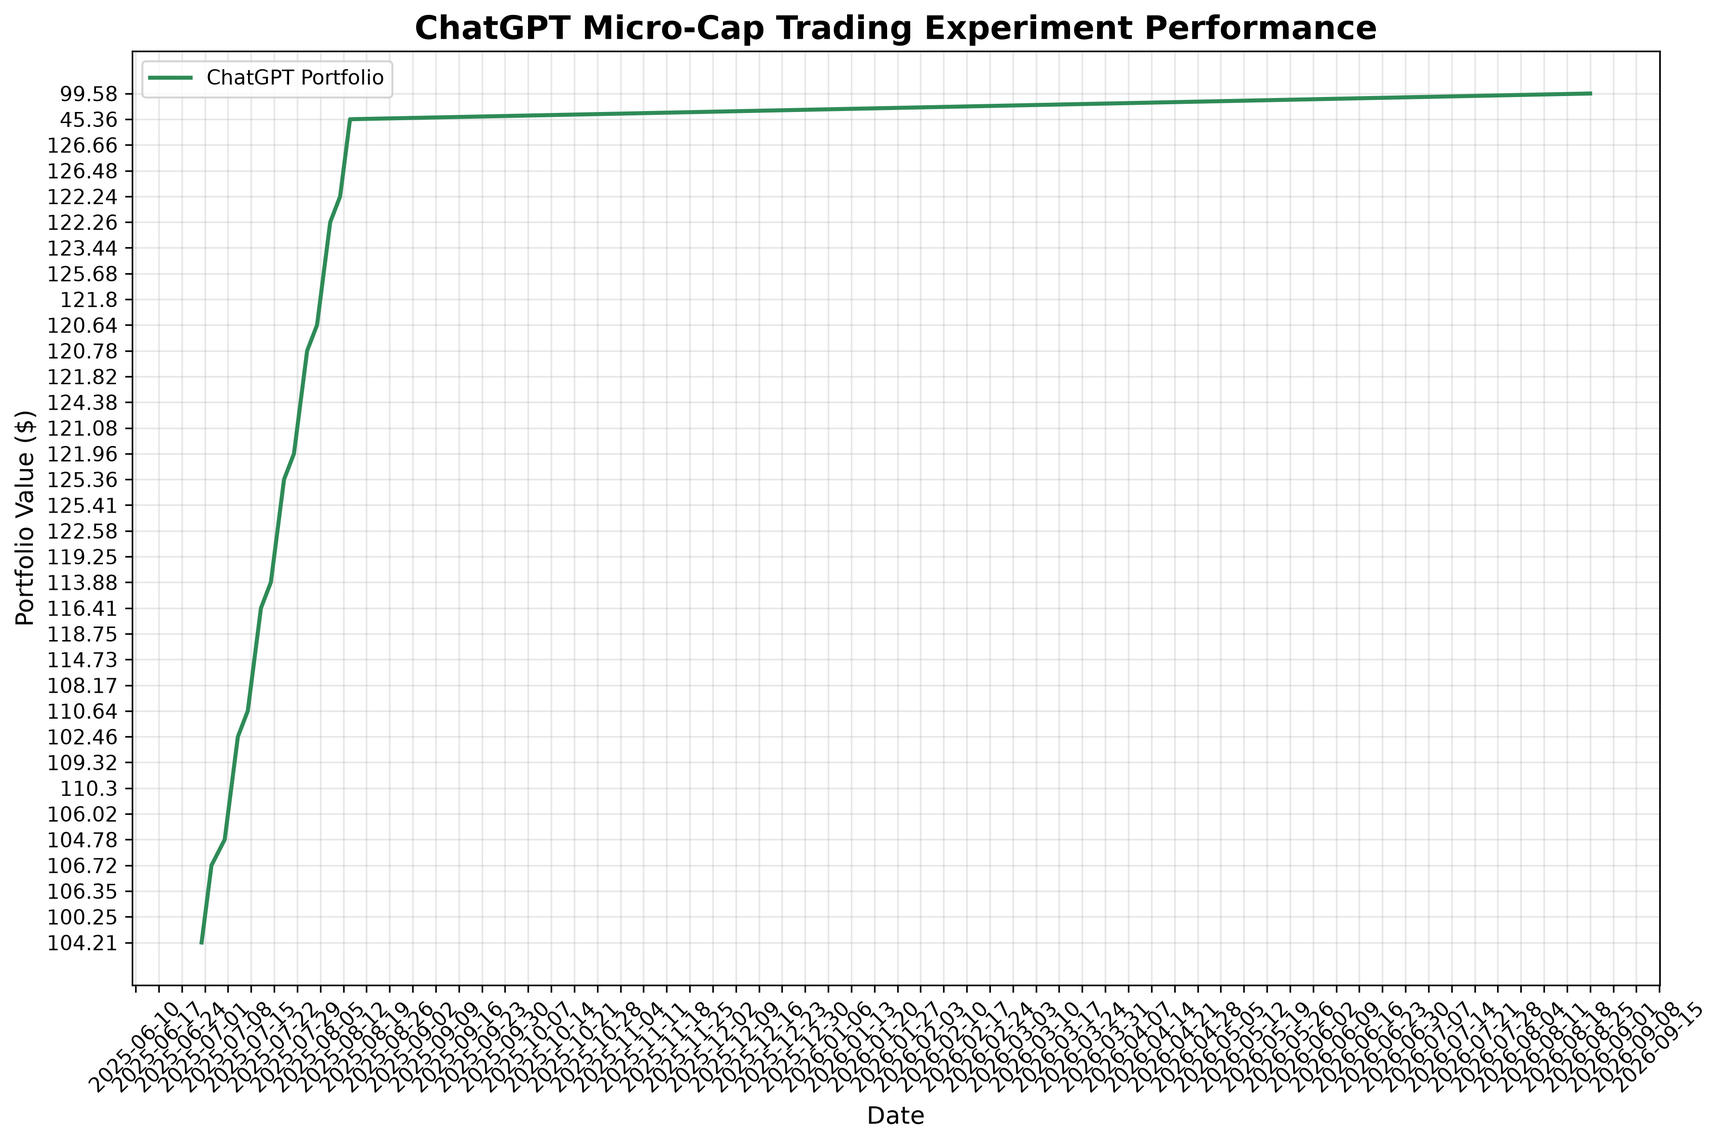
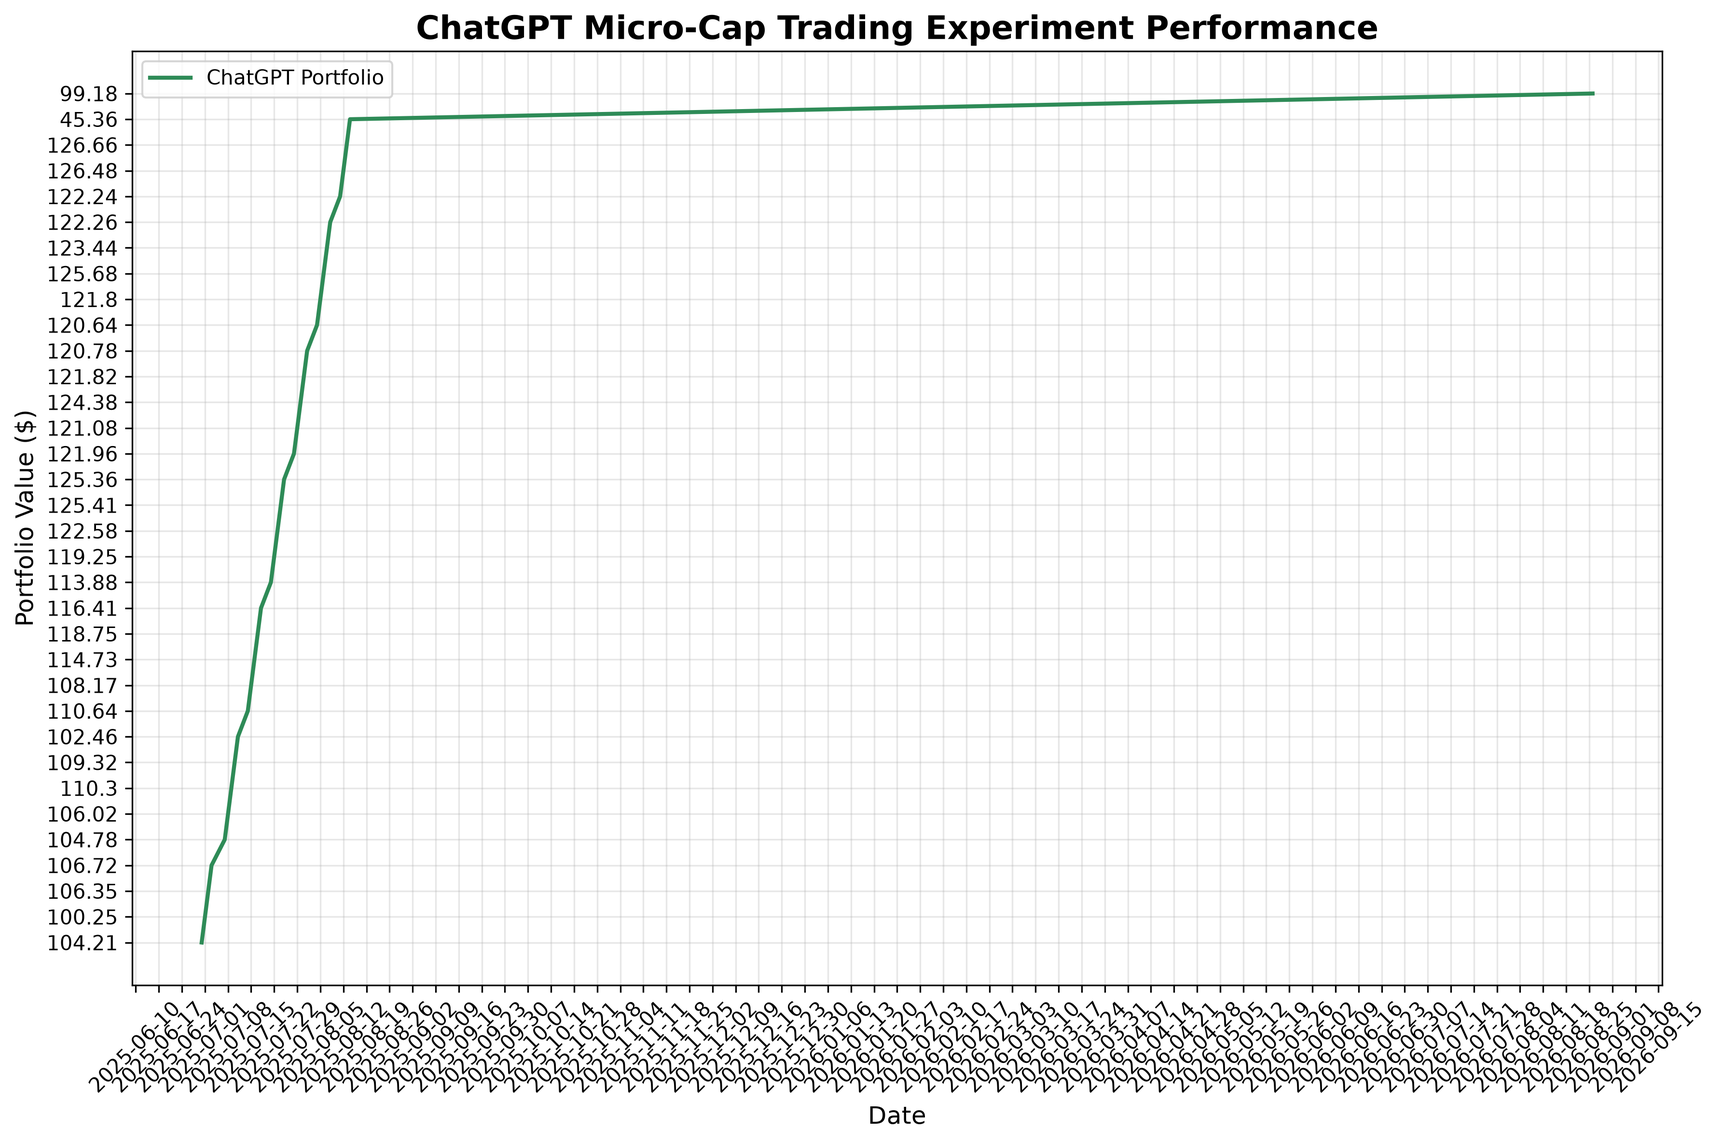
deploy: e15cad030d70fb3fbb51f9df6e22fa70c2f175c0

Changed region(s): [[0.0622, 0.8743, 0.8086, 0.9367], [0.2488, 0.0, 0.7775, 0.0312], [0.4976, 0.9679, 0.5287, 0.9992]]

diff --git a/index.html b/index.html
@@ -105,7 +105,7 @@
                 <div class="stat-label">Total Trades</div>
             </div>
             <div class="stat-card">
-                <div class="stat-value" id="last-updated">2026-08-25</div>
+                <div class="stat-value" id="last-updated">2026-08-26</div>
                 <div class="stat-label">Last Updated</div>
             </div>
         </div>
@@ -160,8 +160,8 @@
     
     <script>
         // Portfolio data
-        const portfolioData = JSON.parse("[{&quot;Date&quot;: &quot;2025-08-11&quot;, &quot;Ticker&quot;: &quot;ABEO&quot;, &quot;Shares&quot;: 4.0, &quot;Buy Price&quot;: 5.77, &quot;Cost Basis&quot;: 23.08, &quot;Stop Loss&quot;: 4.9, &quot;Current Price&quot;: 6.28, &quot;Total Value&quot;: 25.12, &quot;PnL&quot;: 2.04, &quot;Action&quot;: &quot;HOLD&quot;, &quot;Cash Balance&quot;: NaN, &quot;Total Equity&quot;: NaN}, {&quot;Date&quot;: &quot;2025-08-11&quot;, &quot;Ticker&quot;: &quot;ACTU&quot;, &quot;Shares&quot;: 6.0, &quot;Buy Price&quot;: 5.75, &quot;Cost Basis&quot;: 34.5, &quot;Stop Loss&quot;: 4.89, &quot;Current Price&quot;: 8.01, &quot;Total Value&quot;: 48.06, &quot;PnL&quot;: 13.56, &quot;Action&quot;: &quot;HOLD&quot;, &quot;Cash Balance&quot;: NaN, &quot;Total Equity&quot;: NaN}, {&quot;Date&quot;: &quot;2025-08-11&quot;, &quot;Ticker&quot;: &quot;ESPR&quot;, &quot;Shares&quot;: 2.0, &quot;Buy Price&quot;: 1.91, &quot;Cost Basis&quot;: 3.82, &quot;Stop Loss&quot;: 1.6, &quot;Current Price&quot;: 1.85, &quot;Total Value&quot;: 3.7, &quot;PnL&quot;: -0.12, &quot;Action&quot;: &quot;HOLD&quot;, &quot;Cash Balance&quot;: NaN, &quot;Total Equity&quot;: NaN}, {&quot;Date&quot;: &quot;2025-08-11&quot;, &quot;Ticker&quot;: &quot;TOTAL&quot;, &quot;Shares&quot;: NaN, &quot;Buy Price&quot;: NaN, &quot;Cost Basis&quot;: NaN, &quot;Stop Loss&quot;: NaN, &quot;Current Price&quot;: NaN, &quot;Total Value&quot;: 76.88, &quot;PnL&quot;: 15.48, &quot;Action&quot;: NaN, &quot;Cash Balance&quot;: 45.36, &quot;Total Equity&quot;: &quot;122.24&quot;}, {&quot;Date&quot;: &quot;2025-08-12&quot;, &quot;Ticker&quot;: &quot;ABEO&quot;, &quot;Shares&quot;: 4.0, &quot;Buy Price&quot;: 5.77, &quot;Cost Basis&quot;: 23.08, &quot;Stop Loss&quot;: 4.9, &quot;Current Price&quot;: 6.38, &quot;Total Value&quot;: 25.52, &quot;PnL&quot;: 2.44, &quot;Action&quot;: &quot;HOLD&quot;, &quot;Cash Balance&quot;: NaN, &quot;Total Equity&quot;: NaN}, {&quot;Date&quot;: &quot;2025-08-12&quot;, &quot;Ticker&quot;: &quot;ACTU&quot;, &quot;Shares&quot;: 6.0, &quot;Buy Price&quot;: 5.75, &quot;Cost Basis&quot;: 34.5, &quot;Stop Loss&quot;: 4.89, &quot;Current Price&quot;: 8.67, &quot;Total Value&quot;: 52.02, &quot;PnL&quot;: 17.52, &quot;Action&quot;: &quot;HOLD&quot;, &quot;Cash Balance&quot;: NaN, &quot;Total Equity&quot;: NaN}, {&quot;Date&quot;: &quot;2025-08-12&quot;, &quot;Ticker&quot;: &quot;ESPR&quot;, &quot;Shares&quot;: 2.0, &quot;Buy Price&quot;: 1.91, &quot;Cost Basis&quot;: 3.82, &quot;Stop Loss&quot;: 1.6, &quot;Current Price&quot;: 1.79, &quot;Total Value&quot;: 3.58, &quot;PnL&quot;: -0.24, &quot;Action&quot;: &quot;HOLD&quot;, &quot;Cash Balance&quot;: NaN, &quot;Total Equity&quot;: NaN}, {&quot;Date&quot;: &quot;2025-08-12&quot;, &quot;Ticker&quot;: &quot;TOTAL&quot;, &quot;Shares&quot;: NaN, &quot;Buy Price&quot;: NaN, &quot;Cost Basis&quot;: NaN, &quot;Stop Loss&quot;: NaN, &quot;Current Price&quot;: NaN, &quot;Total Value&quot;: 81.12, &quot;PnL&quot;: 19.72, &quot;Action&quot;: NaN, &quot;Cash Balance&quot;: 45.36, &quot;Total Equity&quot;: &quot;126.48&quot;}, {&quot;Date&quot;: &quot;2025-08-13&quot;, &quot;Ticker&quot;: &quot;ABEO&quot;, &quot;Shares&quot;: 4.0, &quot;Buy Price&quot;: 5.77, &quot;Cost Basis&quot;: 23.08, &quot;Stop Loss&quot;: 4.9, &quot;Current Price&quot;: 6.56, &quot;Total Value&quot;: 26.24, &quot;PnL&quot;: 3.16, &quot;Action&quot;: &quot;HOLD&quot;, &quot;Cash Balance&quot;: NaN, &quot;Total Equity&quot;: NaN}, {&quot;Date&quot;: &quot;2025-08-13&quot;, &quot;Ticker&quot;: &quot;ACTU&quot;, &quot;Shares&quot;: 6.0, &quot;Buy Price&quot;: 5.75, &quot;Cost Basis&quot;: 34.5, &quot;Stop Loss&quot;: 4.89, &quot;Current Price&quot;: 8.53, &quot;Total Value&quot;: 51.18, &quot;PnL&quot;: 16.68, &quot;Action&quot;: &quot;HOLD&quot;, &quot;Cash Balance&quot;: NaN, &quot;Total Equity&quot;: NaN}, {&quot;Date&quot;: &quot;2025-08-13&quot;, &quot;Ticker&quot;: &quot;ESPR&quot;, &quot;Shares&quot;: 2.0, &quot;Buy Price&quot;: 1.91, &quot;Cost Basis&quot;: 3.82, &quot;Stop Loss&quot;: 1.6, &quot;Current Price&quot;: 1.94, &quot;Total Value&quot;: 3.88, &quot;PnL&quot;: 0.06, &quot;Action&quot;: &quot;HOLD&quot;, &quot;Cash Balance&quot;: NaN, &quot;Total Equity&quot;: NaN}, {&quot;Date&quot;: &quot;2025-08-13&quot;, &quot;Ticker&quot;: &quot;TOTAL&quot;, &quot;Shares&quot;: NaN, &quot;Buy Price&quot;: NaN, &quot;Cost Basis&quot;: NaN, &quot;Stop Loss&quot;: NaN, &quot;Current Price&quot;: NaN, &quot;Total Value&quot;: 81.3, &quot;PnL&quot;: 19.9, &quot;Action&quot;: NaN, &quot;Cash Balance&quot;: 45.36, &quot;Total Equity&quot;: &quot;126.66&quot;}, {&quot;Date&quot;: &quot;2025-08-14&quot;, &quot;Ticker&quot;: &quot;ABEO&quot;, &quot;Shares&quot;: 4.0, &quot;Buy Price&quot;: 5.77, &quot;Cost Basis&quot;: 23.08, &quot;Stop Loss&quot;: 4.9, &quot;Current Price&quot;: NaN, &quot;Total Value&quot;: NaN, &quot;PnL&quot;: NaN, &quot;Action&quot;: &quot;NO DATA&quot;, &quot;Cash Balance&quot;: NaN, &quot;Total Equity&quot;: NaN}, {&quot;Date&quot;: &quot;2025-08-14&quot;, &quot;Ticker&quot;: &quot;ACTU&quot;, &quot;Shares&quot;: 6.0, &quot;Buy Price&quot;: 5.75, &quot;Cost Basis&quot;: 34.5, &quot;Stop Loss&quot;: 4.89, &quot;Current Price&quot;: NaN, &quot;Total Value&quot;: NaN, &quot;PnL&quot;: NaN, &quot;Action&quot;: &quot;NO DATA&quot;, &quot;Cash Balance&quot;: NaN, &quot;Total Equity&quot;: NaN}, {&quot;Date&quot;: &quot;2025-08-14&quot;, &quot;Ticker&quot;: &quot;ESPR&quot;, &quot;Shares&quot;: 2.0, &quot;Buy Price&quot;: 1.91, &quot;Cost Basis&quot;: 3.82, &quot;Stop Loss&quot;: 1.6, &quot;Current Price&quot;: NaN, &quot;Total Value&quot;: NaN, &quot;PnL&quot;: NaN, &quot;Action&quot;: &quot;NO DATA&quot;, &quot;Cash Balance&quot;: NaN, &quot;Total Equity&quot;: NaN}, {&quot;Date&quot;: &quot;2025-08-14&quot;, &quot;Ticker&quot;: &quot;TOTAL&quot;, &quot;Shares&quot;: NaN, &quot;Buy Price&quot;: NaN, &quot;Cost Basis&quot;: NaN, &quot;Stop Loss&quot;: NaN, &quot;Current Price&quot;: NaN, &quot;Total Value&quot;: 0.0, &quot;PnL&quot;: 0.0, &quot;Action&quot;: NaN, &quot;Cash Balance&quot;: 45.36, &quot;Total Equity&quot;: &quot;45.36&quot;}, {&quot;Date&quot;: &quot;2026-08-25&quot;, &quot;Ticker&quot;: &quot;ABEO&quot;, &quot;Shares&quot;: 4.0, &quot;Buy Price&quot;: 5.77, &quot;Cost Basis&quot;: 23.08, &quot;Stop Loss&quot;: 4.9, &quot;Current Price&quot;: 6.22, &quot;Total Value&quot;: 24.88, &quot;PnL&quot;: 1.8, &quot;Action&quot;: &quot;HOLD&quot;, &quot;Cash Balance&quot;: NaN, &quot;Total Equity&quot;: NaN}, {&quot;Date&quot;: &quot;2026-08-25&quot;, &quot;Ticker&quot;: &quot;ACTU&quot;, &quot;Shares&quot;: 6.0, &quot;Buy Price&quot;: 5.75, &quot;Cost Basis&quot;: 34.5, &quot;Stop Loss&quot;: 4.89, &quot;Current Price&quot;: 4.89, &quot;Total Value&quot;: 29.34, &quot;PnL&quot;: -5.16, &quot;Action&quot;: &quot;SELL - Stop Loss Triggered&quot;, &quot;Cash Balance&quot;: NaN, &quot;Total Equity&quot;: NaN}, {&quot;Date&quot;: &quot;2026-08-25&quot;, &quot;Ticker&quot;: &quot;ESPR&quot;, &quot;Shares&quot;: 2.0, &quot;Buy Price&quot;: 1.91, &quot;Cost Basis&quot;: 3.82, &quot;Stop Loss&quot;: 1.6, &quot;Current Price&quot;: NaN, &quot;Total Value&quot;: NaN, &quot;PnL&quot;: NaN, &quot;Action&quot;: &quot;NO DATA&quot;, &quot;Cash Balance&quot;: NaN, &quot;Total Equity&quot;: NaN}, {&quot;Date&quot;: &quot;2026-08-25&quot;, &quot;Ticker&quot;: &quot;TOTAL&quot;, &quot;Shares&quot;: NaN, &quot;Buy Price&quot;: NaN, &quot;Cost Basis&quot;: NaN, &quot;Stop Loss&quot;: NaN, &quot;Current Price&quot;: NaN, &quot;Total Value&quot;: 24.88, &quot;PnL&quot;: 1.8, &quot;Action&quot;: NaN, &quot;Cash Balance&quot;: 74.7, &quot;Total Equity&quot;: &quot;99.58&quot;}]");
-        const tradeData = JSON.parse("[{&quot;Date&quot;: &quot;2025-07-08&quot;, &quot;Ticker&quot;: &quot;IINN&quot;, &quot;Shares Bought&quot;: 20.0, &quot;Buy Price&quot;: 1.5, &quot;Cost Basis&quot;: 30.0, &quot;PnL&quot;: 0.0, &quot;Reason&quot;: &quot;MANUAL BUY - New position&quot;, &quot;Shares Sold&quot;: NaN, &quot;Sell Price&quot;: NaN}, {&quot;Date&quot;: &quot;2025-07-21&quot;, &quot;Ticker&quot;: &quot;CADL&quot;, &quot;Shares Bought&quot;: NaN, &quot;Buy Price&quot;: NaN, &quot;Cost Basis&quot;: 25.2, &quot;PnL&quot;: 8.5, &quot;Reason&quot;: &quot;MANUAL SELL - GAIN CAPITAL FOR ACTU&quot;, &quot;Shares Sold&quot;: 5.0, &quot;Sell Price&quot;: 6.59}, {&quot;Date&quot;: &quot;2025-07-21&quot;, &quot;Ticker&quot;: &quot;ACTU&quot;, &quot;Shares Bought&quot;: 6.0, &quot;Buy Price&quot;: 5.75, &quot;Cost Basis&quot;: 34.5, &quot;PnL&quot;: 0.0, &quot;Reason&quot;: &quot;MANUAL BUY - New position&quot;, &quot;Shares Sold&quot;: NaN, &quot;Sell Price&quot;: NaN}, {&quot;Date&quot;: &quot;2025-07-28&quot;, &quot;Ticker&quot;: &quot;IINN&quot;, &quot;Shares Bought&quot;: NaN, &quot;Buy Price&quot;: NaN, &quot;Cost Basis&quot;: 9.0, &quot;PnL&quot;: -0.5400000000000009, &quot;Reason&quot;: &quot;MANUAL SELL - POSITION REDUCTION&quot;, &quot;Shares Sold&quot;: 6.0, &quot;Sell Price&quot;: 1.41}, {&quot;Date&quot;: &quot;2025-07-29&quot;, &quot;Ticker&quot;: &quot;AZTR&quot;, &quot;Shares Bought&quot;: NaN, &quot;Buy Price&quot;: NaN, &quot;Cost Basis&quot;: 13.75, &quot;PnL&quot;: -2.75, &quot;Reason&quot;: &quot;MANUAL SELL - DILUTION RISK&quot;, &quot;Shares Sold&quot;: 55.0, &quot;Sell Price&quot;: 0.2}, {&quot;Date&quot;: &quot;2025-08-01&quot;, &quot;Ticker&quot;: &quot;IINN&quot;, &quot;Shares Bought&quot;: 2.0, &quot;Buy Price&quot;: 1.74, &quot;Cost Basis&quot;: 3.48, &quot;PnL&quot;: 0.0, &quot;Reason&quot;: &quot;MANUAL BUY - New position&quot;, &quot;Shares Sold&quot;: NaN, &quot;Sell Price&quot;: NaN}, {&quot;Date&quot;: &quot;2025-08-01&quot;, &quot;Ticker&quot;: &quot;ABEO&quot;, &quot;Shares Bought&quot;: NaN, &quot;Buy Price&quot;: NaN, &quot;Cost Basis&quot;: 11.54, &quot;PnL&quot;: 1.200000000000001, &quot;Reason&quot;: &quot;MANUAL SELL - TRIM AFTER SUPPORT LOSS&quot;, &quot;Shares Sold&quot;: 2.0, &quot;Sell Price&quot;: 6.37}, {&quot;Date&quot;: &quot;2025-08-07&quot;, &quot;Ticker&quot;: &quot;ESPR&quot;, &quot;Shares Bought&quot;: 2.0, &quot;Buy Price&quot;: 1.91, &quot;Cost Basis&quot;: 3.82, &quot;PnL&quot;: 0.0, &quot;Reason&quot;: &quot;MANUAL BUY - New position&quot;, &quot;Shares Sold&quot;: NaN, &quot;Sell Price&quot;: NaN}, {&quot;Date&quot;: &quot;2025-08-08&quot;, &quot;Ticker&quot;: &quot;IINN&quot;, &quot;Shares Bought&quot;: NaN, &quot;Buy Price&quot;: NaN, &quot;Cost Basis&quot;: 1.5, &quot;PnL&quot;: -6.4, &quot;Reason&quot;: &quot;AUTOMATED SELL - STOPLOSS TRIGGERED&quot;, &quot;Shares Sold&quot;: 16.0, &quot;Sell Price&quot;: 1.1}, {&quot;Date&quot;: &quot;2026-08-25&quot;, &quot;Ticker&quot;: &quot;ACTU&quot;, &quot;Shares Bought&quot;: NaN, &quot;Buy Price&quot;: NaN, &quot;Cost Basis&quot;: 5.75, &quot;PnL&quot;: -5.16, &quot;Reason&quot;: &quot;AUTOMATED SELL - STOPLOSS TRIGGERED&quot;, &quot;Shares Sold&quot;: 6.0, &quot;Sell Price&quot;: 4.89}]");
+        const portfolioData = JSON.parse("[{&quot;Date&quot;: &quot;2025-08-11&quot;, &quot;Ticker&quot;: &quot;ABEO&quot;, &quot;Shares&quot;: 4.0, &quot;Buy Price&quot;: 5.77, &quot;Cost Basis&quot;: 23.08, &quot;Stop Loss&quot;: 4.9, &quot;Current Price&quot;: 6.28, &quot;Total Value&quot;: 25.12, &quot;PnL&quot;: 2.04, &quot;Action&quot;: &quot;HOLD&quot;, &quot;Cash Balance&quot;: NaN, &quot;Total Equity&quot;: NaN}, {&quot;Date&quot;: &quot;2025-08-11&quot;, &quot;Ticker&quot;: &quot;ACTU&quot;, &quot;Shares&quot;: 6.0, &quot;Buy Price&quot;: 5.75, &quot;Cost Basis&quot;: 34.5, &quot;Stop Loss&quot;: 4.89, &quot;Current Price&quot;: 8.01, &quot;Total Value&quot;: 48.06, &quot;PnL&quot;: 13.56, &quot;Action&quot;: &quot;HOLD&quot;, &quot;Cash Balance&quot;: NaN, &quot;Total Equity&quot;: NaN}, {&quot;Date&quot;: &quot;2025-08-11&quot;, &quot;Ticker&quot;: &quot;ESPR&quot;, &quot;Shares&quot;: 2.0, &quot;Buy Price&quot;: 1.91, &quot;Cost Basis&quot;: 3.82, &quot;Stop Loss&quot;: 1.6, &quot;Current Price&quot;: 1.85, &quot;Total Value&quot;: 3.7, &quot;PnL&quot;: -0.12, &quot;Action&quot;: &quot;HOLD&quot;, &quot;Cash Balance&quot;: NaN, &quot;Total Equity&quot;: NaN}, {&quot;Date&quot;: &quot;2025-08-11&quot;, &quot;Ticker&quot;: &quot;TOTAL&quot;, &quot;Shares&quot;: NaN, &quot;Buy Price&quot;: NaN, &quot;Cost Basis&quot;: NaN, &quot;Stop Loss&quot;: NaN, &quot;Current Price&quot;: NaN, &quot;Total Value&quot;: 76.88, &quot;PnL&quot;: 15.48, &quot;Action&quot;: NaN, &quot;Cash Balance&quot;: 45.36, &quot;Total Equity&quot;: &quot;122.24&quot;}, {&quot;Date&quot;: &quot;2025-08-12&quot;, &quot;Ticker&quot;: &quot;ABEO&quot;, &quot;Shares&quot;: 4.0, &quot;Buy Price&quot;: 5.77, &quot;Cost Basis&quot;: 23.08, &quot;Stop Loss&quot;: 4.9, &quot;Current Price&quot;: 6.38, &quot;Total Value&quot;: 25.52, &quot;PnL&quot;: 2.44, &quot;Action&quot;: &quot;HOLD&quot;, &quot;Cash Balance&quot;: NaN, &quot;Total Equity&quot;: NaN}, {&quot;Date&quot;: &quot;2025-08-12&quot;, &quot;Ticker&quot;: &quot;ACTU&quot;, &quot;Shares&quot;: 6.0, &quot;Buy Price&quot;: 5.75, &quot;Cost Basis&quot;: 34.5, &quot;Stop Loss&quot;: 4.89, &quot;Current Price&quot;: 8.67, &quot;Total Value&quot;: 52.02, &quot;PnL&quot;: 17.52, &quot;Action&quot;: &quot;HOLD&quot;, &quot;Cash Balance&quot;: NaN, &quot;Total Equity&quot;: NaN}, {&quot;Date&quot;: &quot;2025-08-12&quot;, &quot;Ticker&quot;: &quot;ESPR&quot;, &quot;Shares&quot;: 2.0, &quot;Buy Price&quot;: 1.91, &quot;Cost Basis&quot;: 3.82, &quot;Stop Loss&quot;: 1.6, &quot;Current Price&quot;: 1.79, &quot;Total Value&quot;: 3.58, &quot;PnL&quot;: -0.24, &quot;Action&quot;: &quot;HOLD&quot;, &quot;Cash Balance&quot;: NaN, &quot;Total Equity&quot;: NaN}, {&quot;Date&quot;: &quot;2025-08-12&quot;, &quot;Ticker&quot;: &quot;TOTAL&quot;, &quot;Shares&quot;: NaN, &quot;Buy Price&quot;: NaN, &quot;Cost Basis&quot;: NaN, &quot;Stop Loss&quot;: NaN, &quot;Current Price&quot;: NaN, &quot;Total Value&quot;: 81.12, &quot;PnL&quot;: 19.72, &quot;Action&quot;: NaN, &quot;Cash Balance&quot;: 45.36, &quot;Total Equity&quot;: &quot;126.48&quot;}, {&quot;Date&quot;: &quot;2025-08-13&quot;, &quot;Ticker&quot;: &quot;ABEO&quot;, &quot;Shares&quot;: 4.0, &quot;Buy Price&quot;: 5.77, &quot;Cost Basis&quot;: 23.08, &quot;Stop Loss&quot;: 4.9, &quot;Current Price&quot;: 6.56, &quot;Total Value&quot;: 26.24, &quot;PnL&quot;: 3.16, &quot;Action&quot;: &quot;HOLD&quot;, &quot;Cash Balance&quot;: NaN, &quot;Total Equity&quot;: NaN}, {&quot;Date&quot;: &quot;2025-08-13&quot;, &quot;Ticker&quot;: &quot;ACTU&quot;, &quot;Shares&quot;: 6.0, &quot;Buy Price&quot;: 5.75, &quot;Cost Basis&quot;: 34.5, &quot;Stop Loss&quot;: 4.89, &quot;Current Price&quot;: 8.53, &quot;Total Value&quot;: 51.18, &quot;PnL&quot;: 16.68, &quot;Action&quot;: &quot;HOLD&quot;, &quot;Cash Balance&quot;: NaN, &quot;Total Equity&quot;: NaN}, {&quot;Date&quot;: &quot;2025-08-13&quot;, &quot;Ticker&quot;: &quot;ESPR&quot;, &quot;Shares&quot;: 2.0, &quot;Buy Price&quot;: 1.91, &quot;Cost Basis&quot;: 3.82, &quot;Stop Loss&quot;: 1.6, &quot;Current Price&quot;: 1.94, &quot;Total Value&quot;: 3.88, &quot;PnL&quot;: 0.06, &quot;Action&quot;: &quot;HOLD&quot;, &quot;Cash Balance&quot;: NaN, &quot;Total Equity&quot;: NaN}, {&quot;Date&quot;: &quot;2025-08-13&quot;, &quot;Ticker&quot;: &quot;TOTAL&quot;, &quot;Shares&quot;: NaN, &quot;Buy Price&quot;: NaN, &quot;Cost Basis&quot;: NaN, &quot;Stop Loss&quot;: NaN, &quot;Current Price&quot;: NaN, &quot;Total Value&quot;: 81.3, &quot;PnL&quot;: 19.9, &quot;Action&quot;: NaN, &quot;Cash Balance&quot;: 45.36, &quot;Total Equity&quot;: &quot;126.66&quot;}, {&quot;Date&quot;: &quot;2025-08-14&quot;, &quot;Ticker&quot;: &quot;ABEO&quot;, &quot;Shares&quot;: 4.0, &quot;Buy Price&quot;: 5.77, &quot;Cost Basis&quot;: 23.08, &quot;Stop Loss&quot;: 4.9, &quot;Current Price&quot;: NaN, &quot;Total Value&quot;: NaN, &quot;PnL&quot;: NaN, &quot;Action&quot;: &quot;NO DATA&quot;, &quot;Cash Balance&quot;: NaN, &quot;Total Equity&quot;: NaN}, {&quot;Date&quot;: &quot;2025-08-14&quot;, &quot;Ticker&quot;: &quot;ACTU&quot;, &quot;Shares&quot;: 6.0, &quot;Buy Price&quot;: 5.75, &quot;Cost Basis&quot;: 34.5, &quot;Stop Loss&quot;: 4.89, &quot;Current Price&quot;: NaN, &quot;Total Value&quot;: NaN, &quot;PnL&quot;: NaN, &quot;Action&quot;: &quot;NO DATA&quot;, &quot;Cash Balance&quot;: NaN, &quot;Total Equity&quot;: NaN}, {&quot;Date&quot;: &quot;2025-08-14&quot;, &quot;Ticker&quot;: &quot;ESPR&quot;, &quot;Shares&quot;: 2.0, &quot;Buy Price&quot;: 1.91, &quot;Cost Basis&quot;: 3.82, &quot;Stop Loss&quot;: 1.6, &quot;Current Price&quot;: NaN, &quot;Total Value&quot;: NaN, &quot;PnL&quot;: NaN, &quot;Action&quot;: &quot;NO DATA&quot;, &quot;Cash Balance&quot;: NaN, &quot;Total Equity&quot;: NaN}, {&quot;Date&quot;: &quot;2025-08-14&quot;, &quot;Ticker&quot;: &quot;TOTAL&quot;, &quot;Shares&quot;: NaN, &quot;Buy Price&quot;: NaN, &quot;Cost Basis&quot;: NaN, &quot;Stop Loss&quot;: NaN, &quot;Current Price&quot;: NaN, &quot;Total Value&quot;: 0.0, &quot;PnL&quot;: 0.0, &quot;Action&quot;: NaN, &quot;Cash Balance&quot;: 45.36, &quot;Total Equity&quot;: &quot;45.36&quot;}, {&quot;Date&quot;: &quot;2026-08-26&quot;, &quot;Ticker&quot;: &quot;ABEO&quot;, &quot;Shares&quot;: 4.0, &quot;Buy Price&quot;: 5.77, &quot;Cost Basis&quot;: 23.08, &quot;Stop Loss&quot;: 4.9, &quot;Current Price&quot;: 6.12, &quot;Total Value&quot;: 24.48, &quot;PnL&quot;: 1.4, &quot;Action&quot;: &quot;HOLD&quot;, &quot;Cash Balance&quot;: NaN, &quot;Total Equity&quot;: NaN}, {&quot;Date&quot;: &quot;2026-08-26&quot;, &quot;Ticker&quot;: &quot;ACTU&quot;, &quot;Shares&quot;: 6.0, &quot;Buy Price&quot;: 5.75, &quot;Cost Basis&quot;: 34.5, &quot;Stop Loss&quot;: 4.89, &quot;Current Price&quot;: 4.89, &quot;Total Value&quot;: 29.34, &quot;PnL&quot;: -5.16, &quot;Action&quot;: &quot;SELL - Stop Loss Triggered&quot;, &quot;Cash Balance&quot;: NaN, &quot;Total Equity&quot;: NaN}, {&quot;Date&quot;: &quot;2026-08-26&quot;, &quot;Ticker&quot;: &quot;ESPR&quot;, &quot;Shares&quot;: 2.0, &quot;Buy Price&quot;: 1.91, &quot;Cost Basis&quot;: 3.82, &quot;Stop Loss&quot;: 1.6, &quot;Current Price&quot;: NaN, &quot;Total Value&quot;: NaN, &quot;PnL&quot;: NaN, &quot;Action&quot;: &quot;NO DATA&quot;, &quot;Cash Balance&quot;: NaN, &quot;Total Equity&quot;: NaN}, {&quot;Date&quot;: &quot;2026-08-26&quot;, &quot;Ticker&quot;: &quot;TOTAL&quot;, &quot;Shares&quot;: NaN, &quot;Buy Price&quot;: NaN, &quot;Cost Basis&quot;: NaN, &quot;Stop Loss&quot;: NaN, &quot;Current Price&quot;: NaN, &quot;Total Value&quot;: 24.48, &quot;PnL&quot;: 1.4, &quot;Action&quot;: NaN, &quot;Cash Balance&quot;: 74.7, &quot;Total Equity&quot;: &quot;99.18&quot;}]");
+        const tradeData = JSON.parse("[{&quot;Date&quot;: &quot;2025-07-08&quot;, &quot;Ticker&quot;: &quot;IINN&quot;, &quot;Shares Bought&quot;: 20.0, &quot;Buy Price&quot;: 1.5, &quot;Cost Basis&quot;: 30.0, &quot;PnL&quot;: 0.0, &quot;Reason&quot;: &quot;MANUAL BUY - New position&quot;, &quot;Shares Sold&quot;: NaN, &quot;Sell Price&quot;: NaN}, {&quot;Date&quot;: &quot;2025-07-21&quot;, &quot;Ticker&quot;: &quot;CADL&quot;, &quot;Shares Bought&quot;: NaN, &quot;Buy Price&quot;: NaN, &quot;Cost Basis&quot;: 25.2, &quot;PnL&quot;: 8.5, &quot;Reason&quot;: &quot;MANUAL SELL - GAIN CAPITAL FOR ACTU&quot;, &quot;Shares Sold&quot;: 5.0, &quot;Sell Price&quot;: 6.59}, {&quot;Date&quot;: &quot;2025-07-21&quot;, &quot;Ticker&quot;: &quot;ACTU&quot;, &quot;Shares Bought&quot;: 6.0, &quot;Buy Price&quot;: 5.75, &quot;Cost Basis&quot;: 34.5, &quot;PnL&quot;: 0.0, &quot;Reason&quot;: &quot;MANUAL BUY - New position&quot;, &quot;Shares Sold&quot;: NaN, &quot;Sell Price&quot;: NaN}, {&quot;Date&quot;: &quot;2025-07-28&quot;, &quot;Ticker&quot;: &quot;IINN&quot;, &quot;Shares Bought&quot;: NaN, &quot;Buy Price&quot;: NaN, &quot;Cost Basis&quot;: 9.0, &quot;PnL&quot;: -0.5400000000000009, &quot;Reason&quot;: &quot;MANUAL SELL - POSITION REDUCTION&quot;, &quot;Shares Sold&quot;: 6.0, &quot;Sell Price&quot;: 1.41}, {&quot;Date&quot;: &quot;2025-07-29&quot;, &quot;Ticker&quot;: &quot;AZTR&quot;, &quot;Shares Bought&quot;: NaN, &quot;Buy Price&quot;: NaN, &quot;Cost Basis&quot;: 13.75, &quot;PnL&quot;: -2.75, &quot;Reason&quot;: &quot;MANUAL SELL - DILUTION RISK&quot;, &quot;Shares Sold&quot;: 55.0, &quot;Sell Price&quot;: 0.2}, {&quot;Date&quot;: &quot;2025-08-01&quot;, &quot;Ticker&quot;: &quot;IINN&quot;, &quot;Shares Bought&quot;: 2.0, &quot;Buy Price&quot;: 1.74, &quot;Cost Basis&quot;: 3.48, &quot;PnL&quot;: 0.0, &quot;Reason&quot;: &quot;MANUAL BUY - New position&quot;, &quot;Shares Sold&quot;: NaN, &quot;Sell Price&quot;: NaN}, {&quot;Date&quot;: &quot;2025-08-01&quot;, &quot;Ticker&quot;: &quot;ABEO&quot;, &quot;Shares Bought&quot;: NaN, &quot;Buy Price&quot;: NaN, &quot;Cost Basis&quot;: 11.54, &quot;PnL&quot;: 1.200000000000001, &quot;Reason&quot;: &quot;MANUAL SELL - TRIM AFTER SUPPORT LOSS&quot;, &quot;Shares Sold&quot;: 2.0, &quot;Sell Price&quot;: 6.37}, {&quot;Date&quot;: &quot;2025-08-07&quot;, &quot;Ticker&quot;: &quot;ESPR&quot;, &quot;Shares Bought&quot;: 2.0, &quot;Buy Price&quot;: 1.91, &quot;Cost Basis&quot;: 3.82, &quot;PnL&quot;: 0.0, &quot;Reason&quot;: &quot;MANUAL BUY - New position&quot;, &quot;Shares Sold&quot;: NaN, &quot;Sell Price&quot;: NaN}, {&quot;Date&quot;: &quot;2025-08-08&quot;, &quot;Ticker&quot;: &quot;IINN&quot;, &quot;Shares Bought&quot;: NaN, &quot;Buy Price&quot;: NaN, &quot;Cost Basis&quot;: 1.5, &quot;PnL&quot;: -6.4, &quot;Reason&quot;: &quot;AUTOMATED SELL - STOPLOSS TRIGGERED&quot;, &quot;Shares Sold&quot;: 16.0, &quot;Sell Price&quot;: 1.1}, {&quot;Date&quot;: &quot;2026-08-26&quot;, &quot;Ticker&quot;: &quot;ACTU&quot;, &quot;Shares Bought&quot;: NaN, &quot;Buy Price&quot;: NaN, &quot;Cost Basis&quot;: 5.75, &quot;PnL&quot;: -5.16, &quot;Reason&quot;: &quot;AUTOMATED SELL - STOPLOSS TRIGGERED&quot;, &quot;Shares Sold&quot;: 6.0, &quot;Sell Price&quot;: 4.89}]");
         
         // Update total equity
         if (portfolioData.length > 0) {
